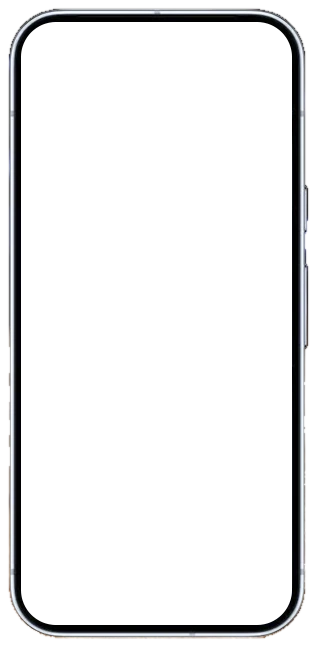
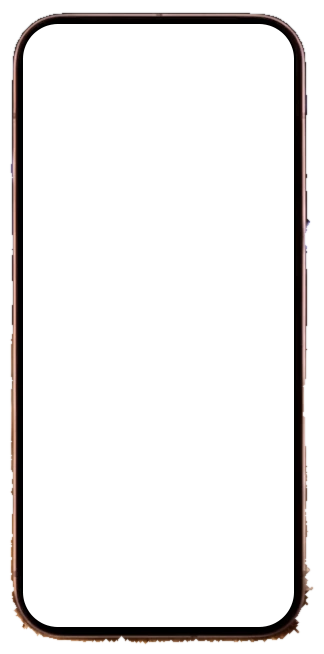
feat: phone with a shadow in the web dashboard tour
Tim's new phone mockup: the phone and its shadow are separate layers, so
the shadow fades in where the phone lands, as with the e-reader. The
phone's white screen arrives with the frame and the page fades in on it.

Claude-Session: https://claude.ai/code/session_01DsWrJRGWk8edvLYuN5dSxu

Changed region(s): [[0.0, 0.0, 0.9906, 0.9877]]

diff --git a/src/content.config.ts b/src/content.config.ts
@@ -50,7 +50,7 @@ const apps = defineCollection({
     // Guided tours: a device on the table that steps through screenshots with a
     // sheet of text beside it. Files live in public/<dir>/: scene.jpg,
     // device.webp, each slide's image, plus intro.mp4 and intro-poster.jpg with
-    // `intro`, and shadow.webp for the e-ink kind. See src/components/Showcase.astro.
+    // `intro`, and shadow.webp. See src/components/Showcase.astro.
     showcases: z
       .array(
         z.object({

diff --git a/README.md b/README.md
@@ -147,7 +147,7 @@ view, and gems switch between screenshots with a sheet of text beside them.
   (visitors can scroll them too); pages cross-fade.
 - `title` adds a heading above the tour.
 - Files live in `public/<dir>/`: `scene.jpg`, `device.webp`, each slide's image, plus
-  `intro.mp4` and `intro-poster.jpg` with `intro`, and `shadow.webp` for e-ink.
+  `intro.mp4` and `intro-poster.jpg` with `intro`, and `shadow.webp`.
 - To change the wording or add a slide, edit its `slides:` list. Blank lines in `text` start a
   new paragraph.
 - Visitors who ask for reduced motion get the finished scene with no video or animation.
